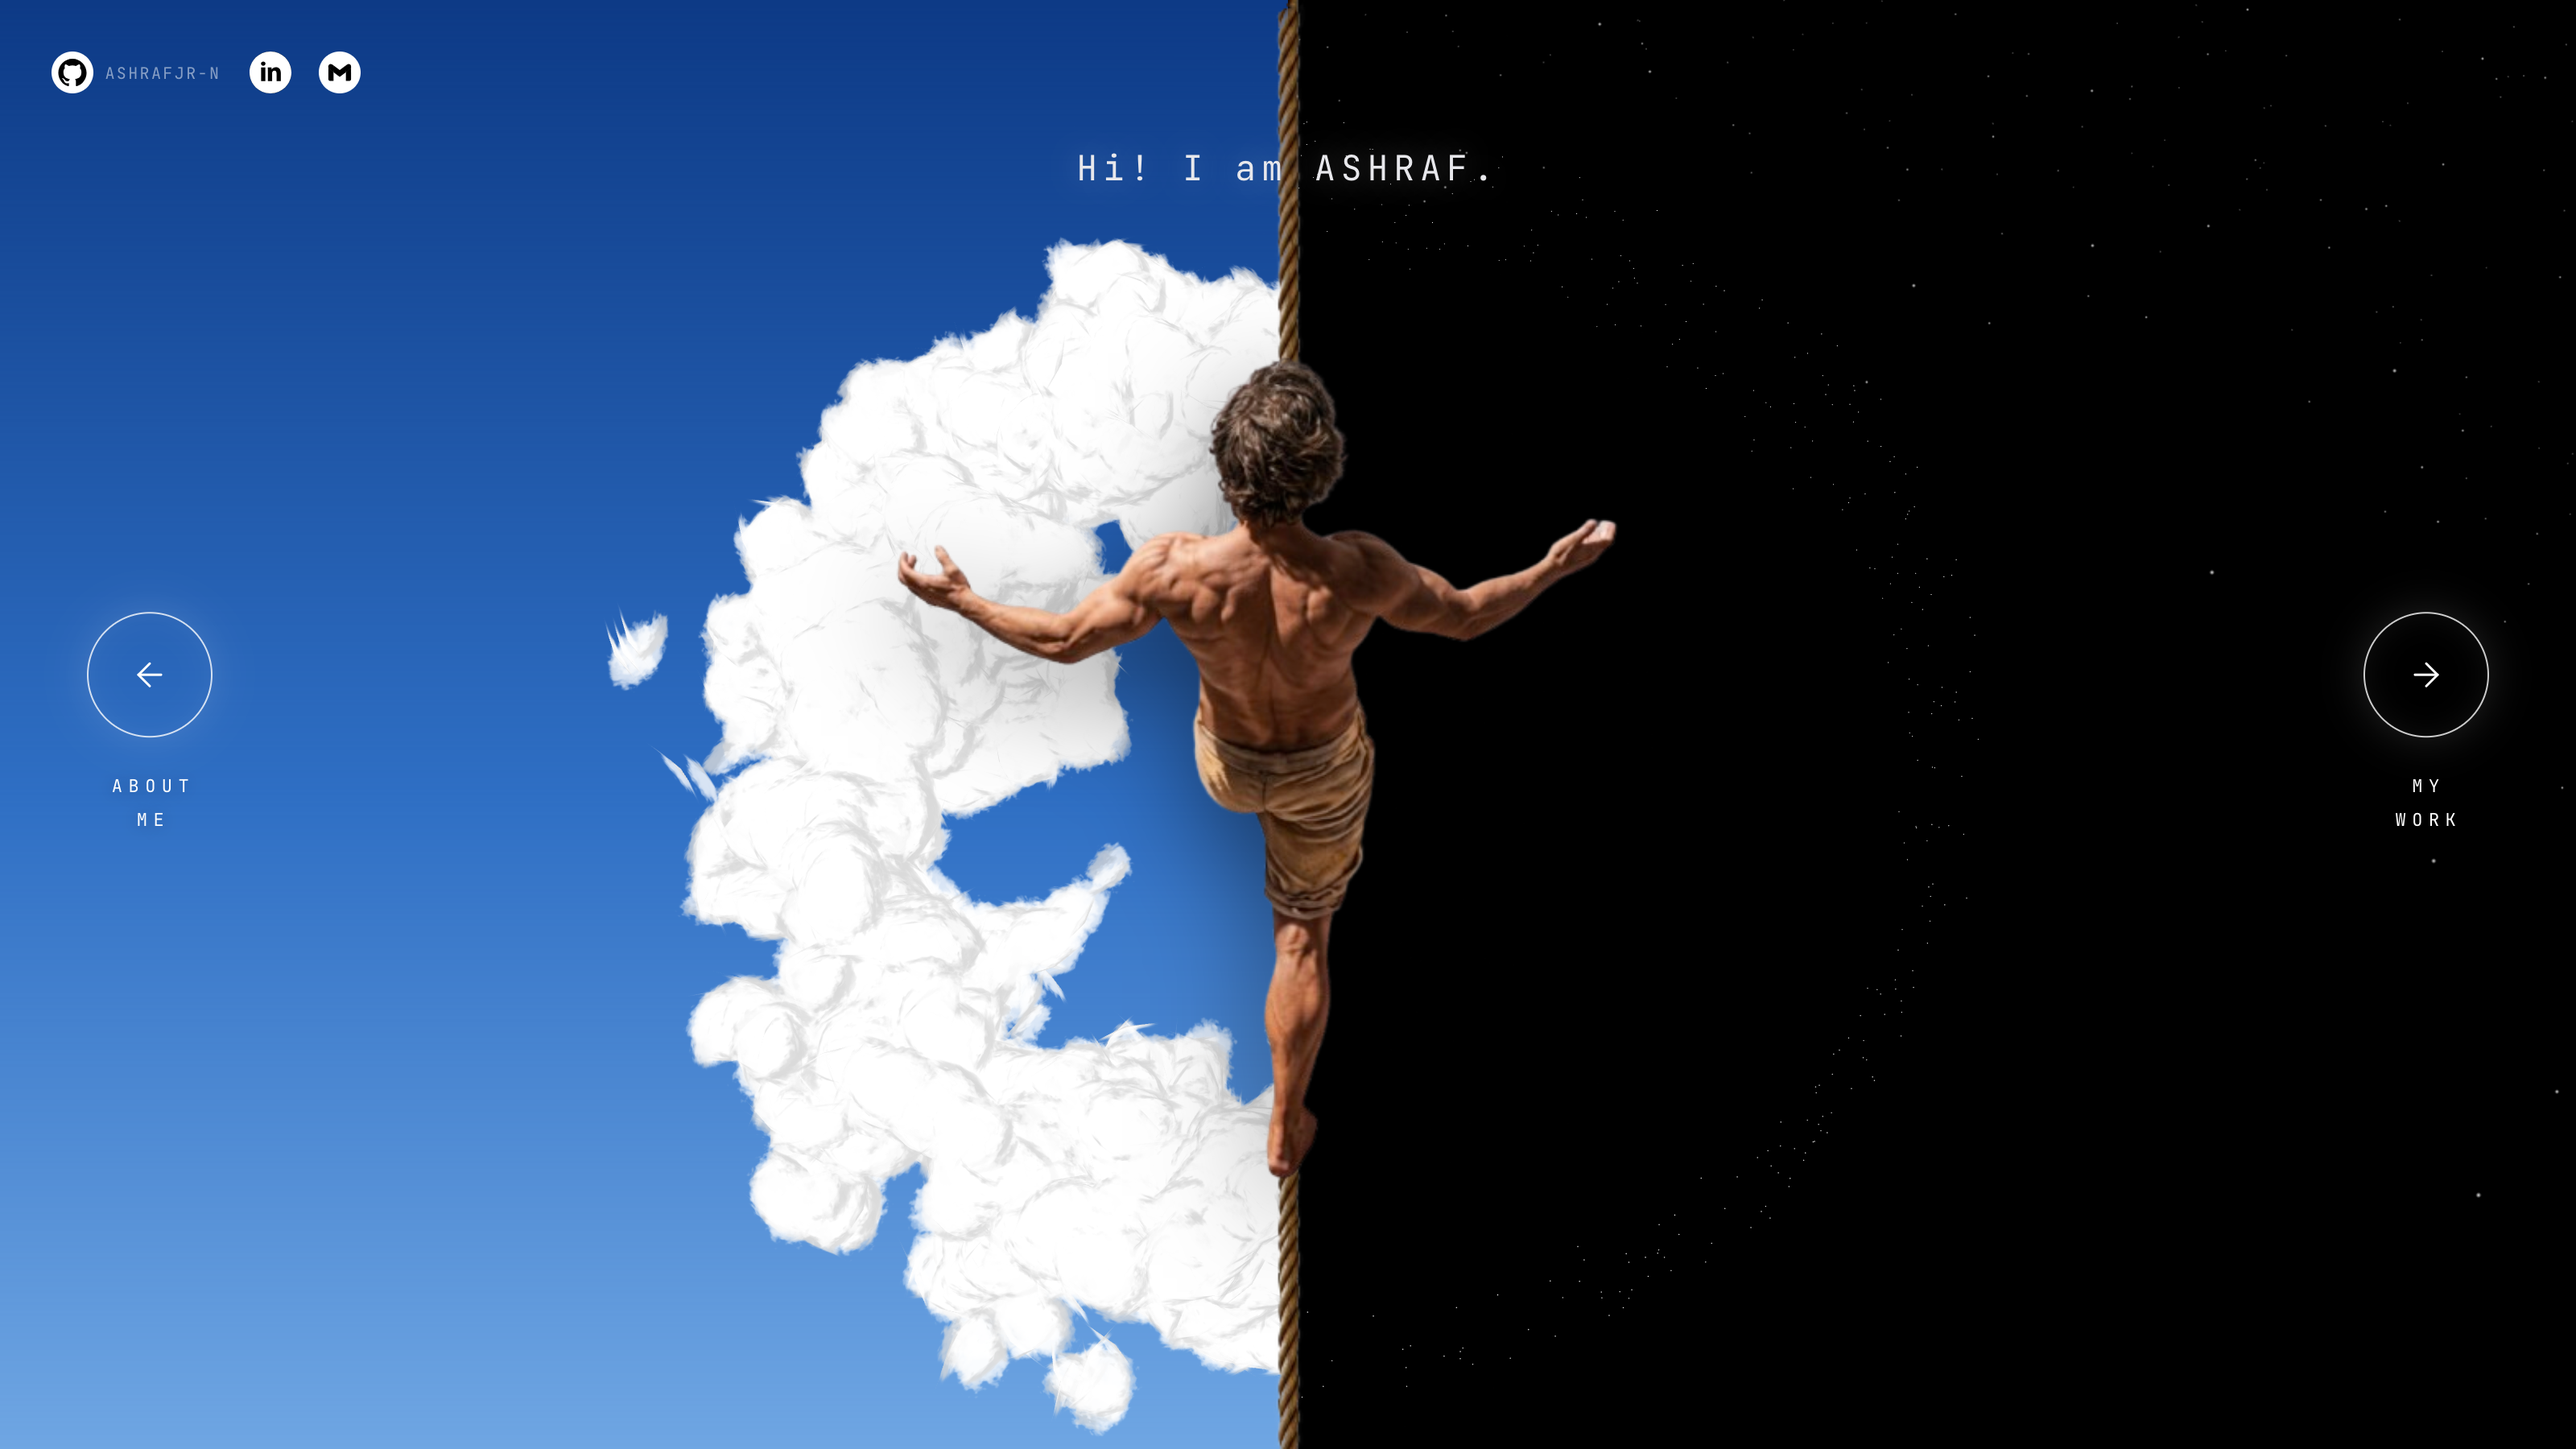
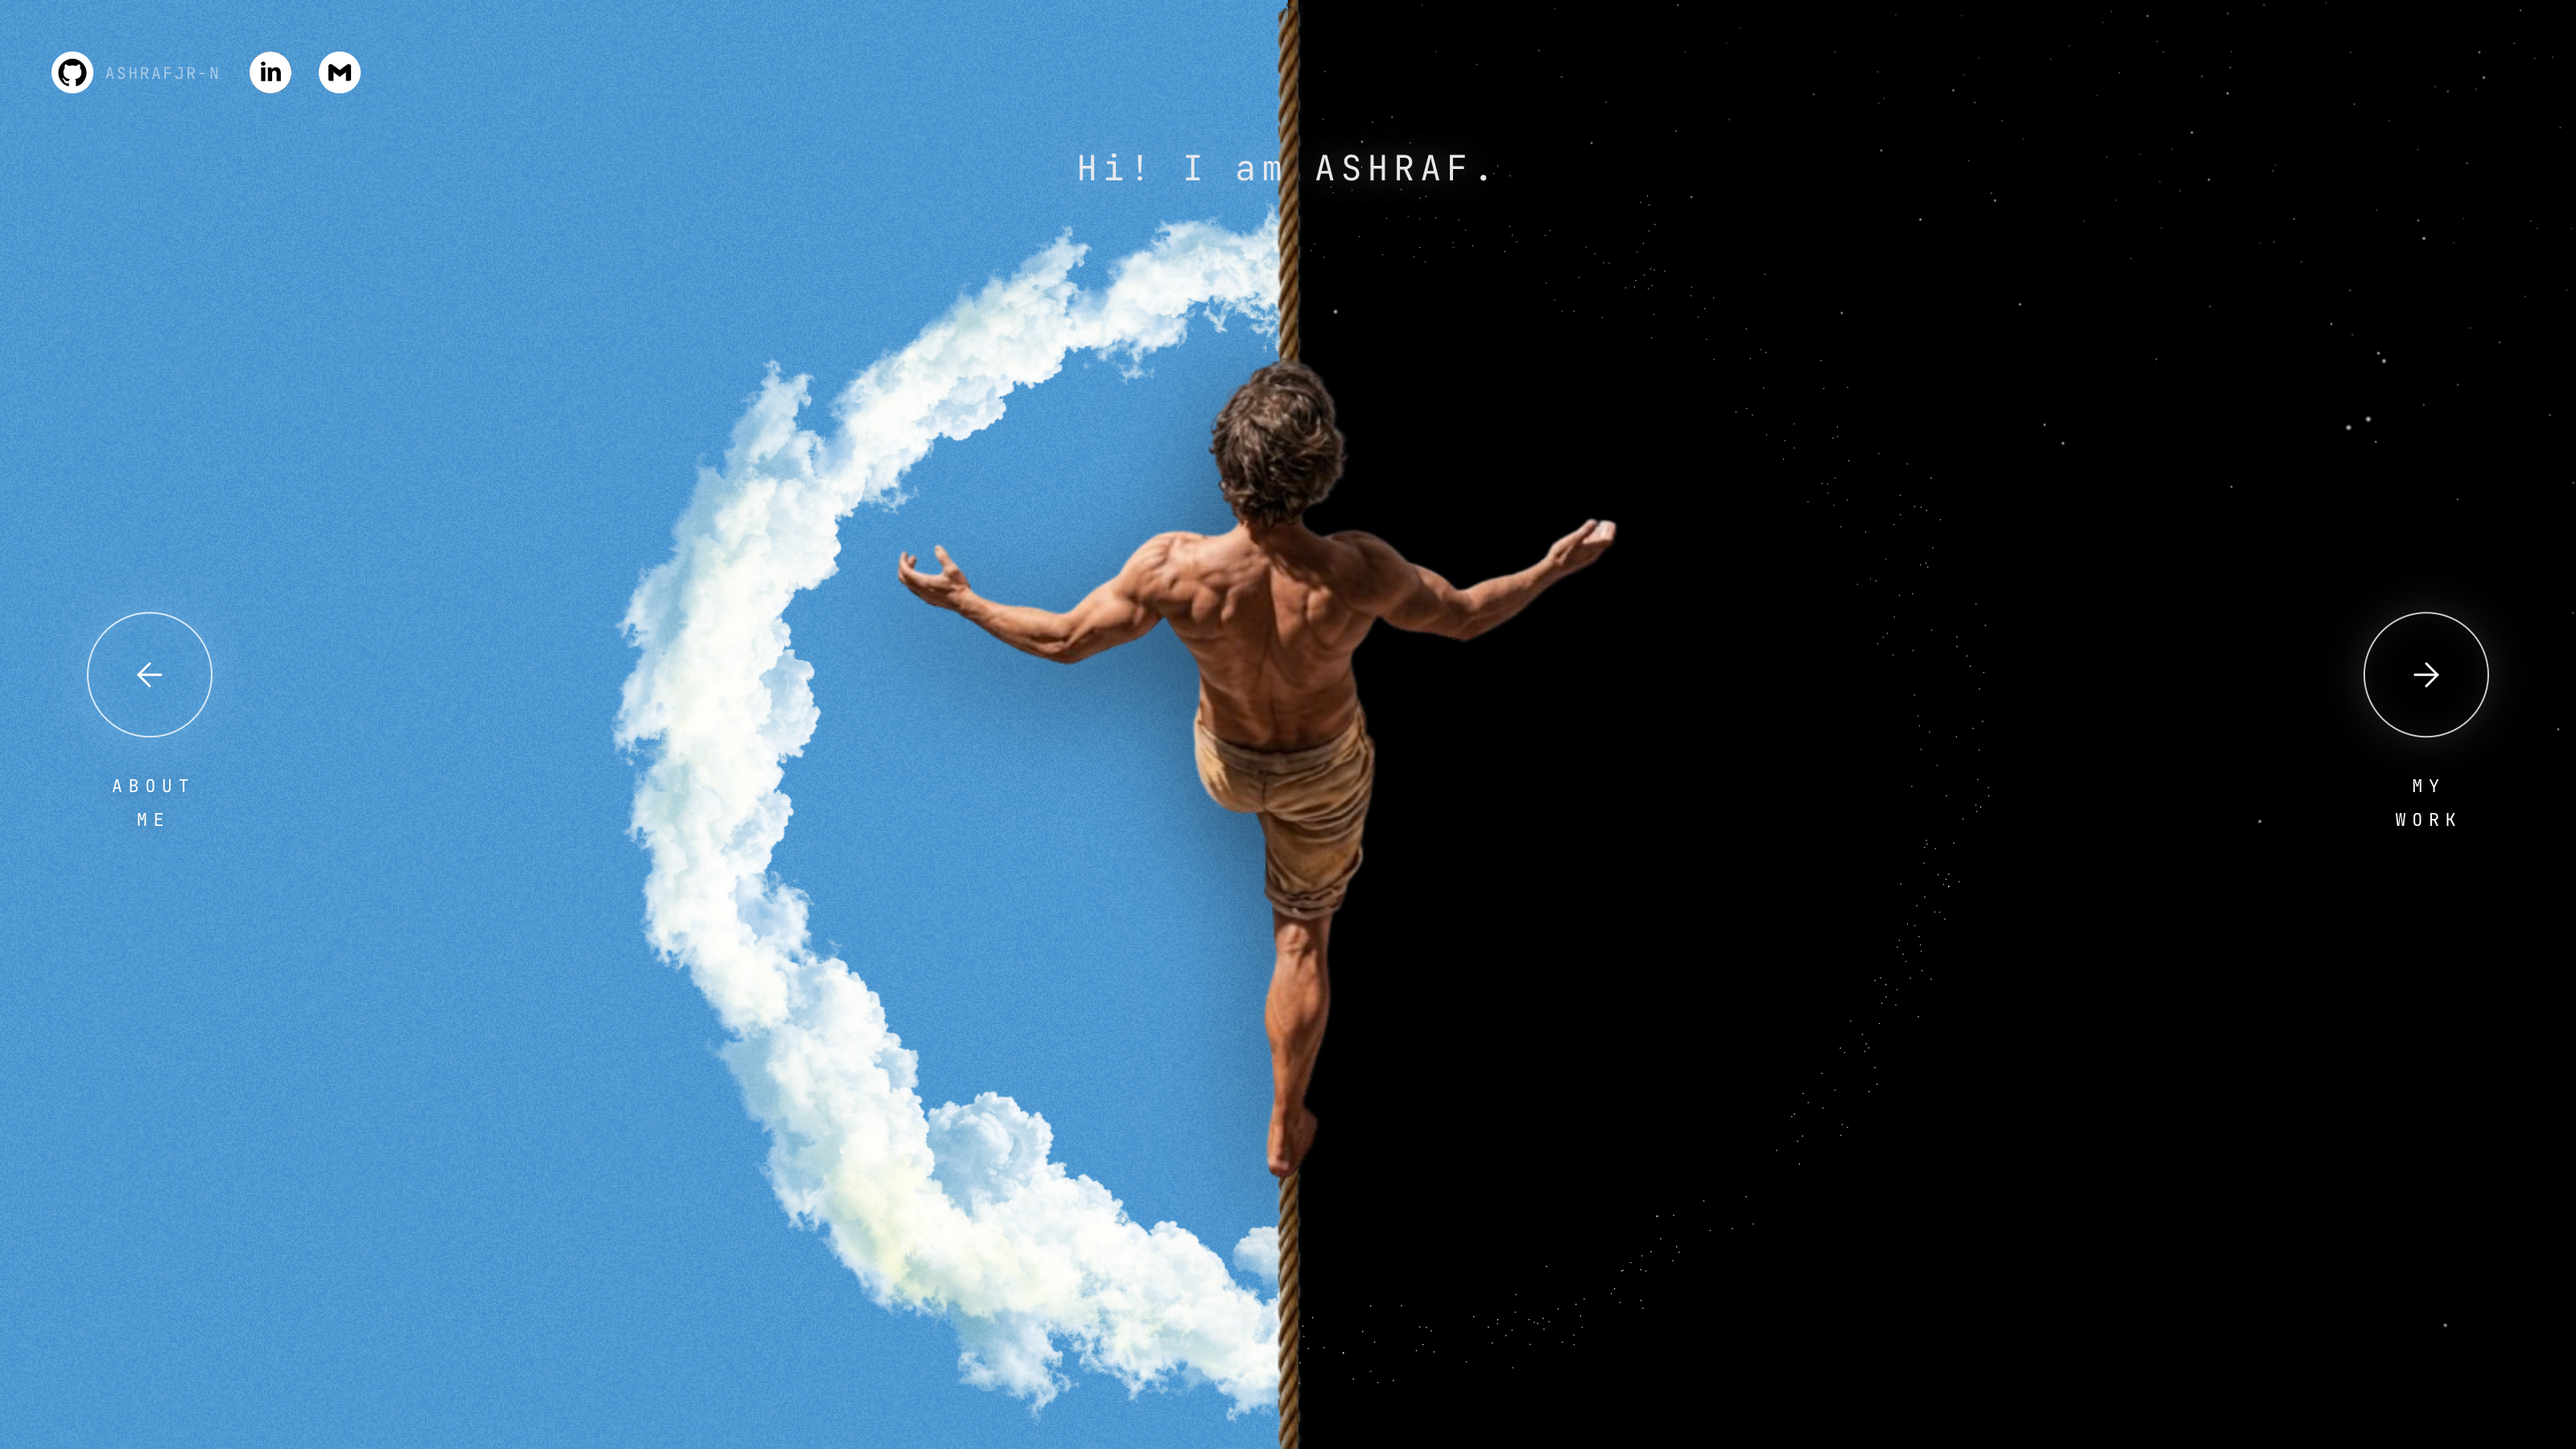
update README V1.2

diff --git a/README.md b/README.md
@@ -13,7 +13,7 @@ statements and **CONTACT**. Each visit opens on a short 0–99 count.
 ## Built with
 
 - **[Three.js](https://threejs.org)**: the WebGL starfield, around 20,000 stars
-  on their own orbits, and the cloud ring
+  on their own orbits, and the ring of clouds
 - **TypeScript**: vanilla and `strict`, with no UI framework
 - **[Vite](https://vite.dev)**: dev server and build
 - **Plain CSS**: design tokens, layout and every transition, with no CSS
@@ -42,9 +42,3 @@ screenshots live in `public/assets/projects/`.
 
 `prefers-reduced-motion` is honoured: the rings hold still and every
 transition is instant.
-
-## Credits
-
-"[Cloud Ring](https://sketchfab.com/3d-models/cloud-ring-27897026b0a24dfe992ca761a4029d01)"
-by [RandyGF](https://sketchfab.com/RandyGF), licensed under
-[CC BY 4.0](http://creativecommons.org/licenses/by/4.0/).
